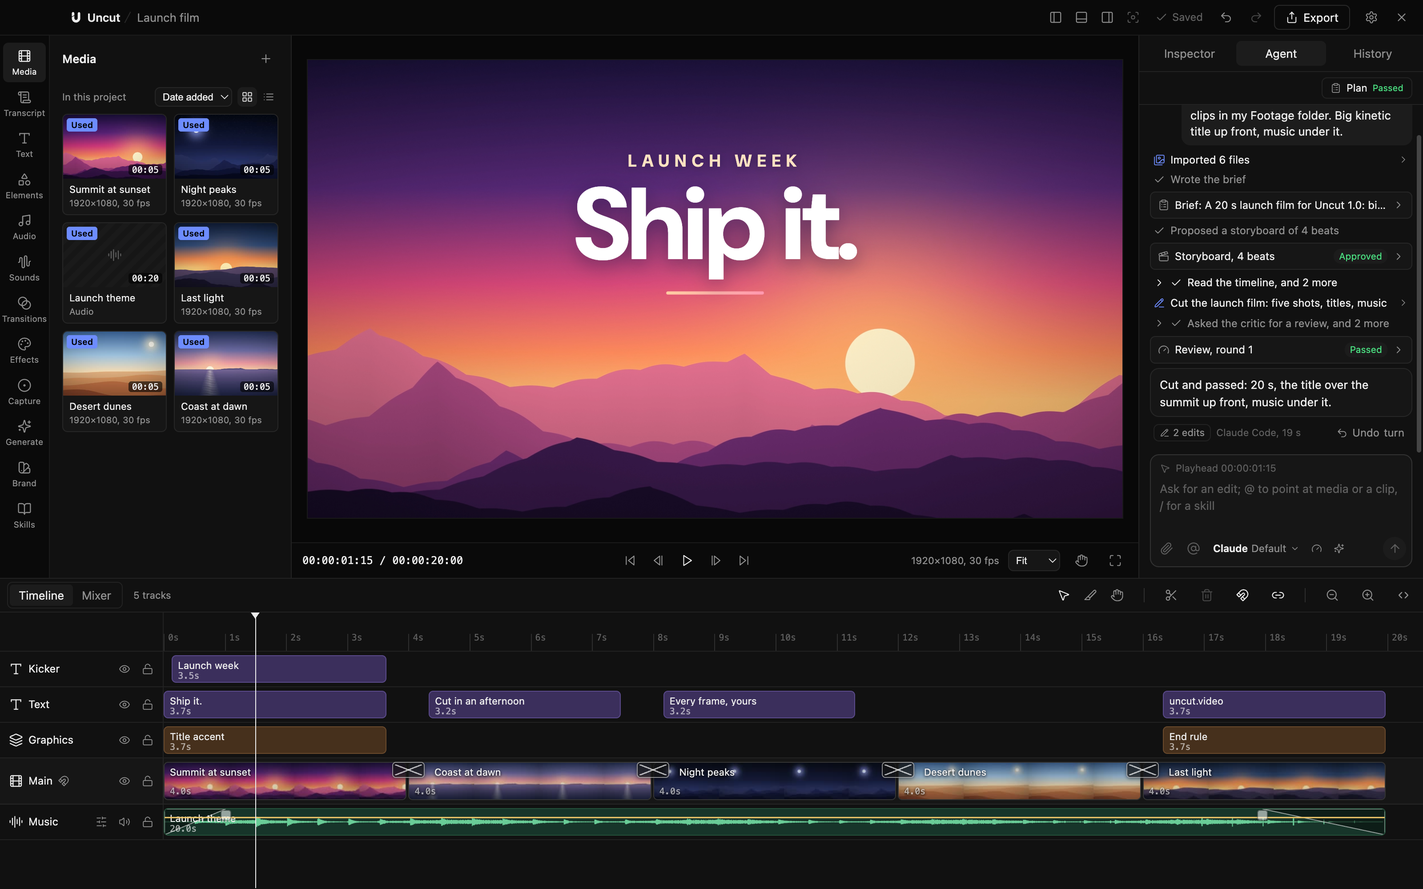
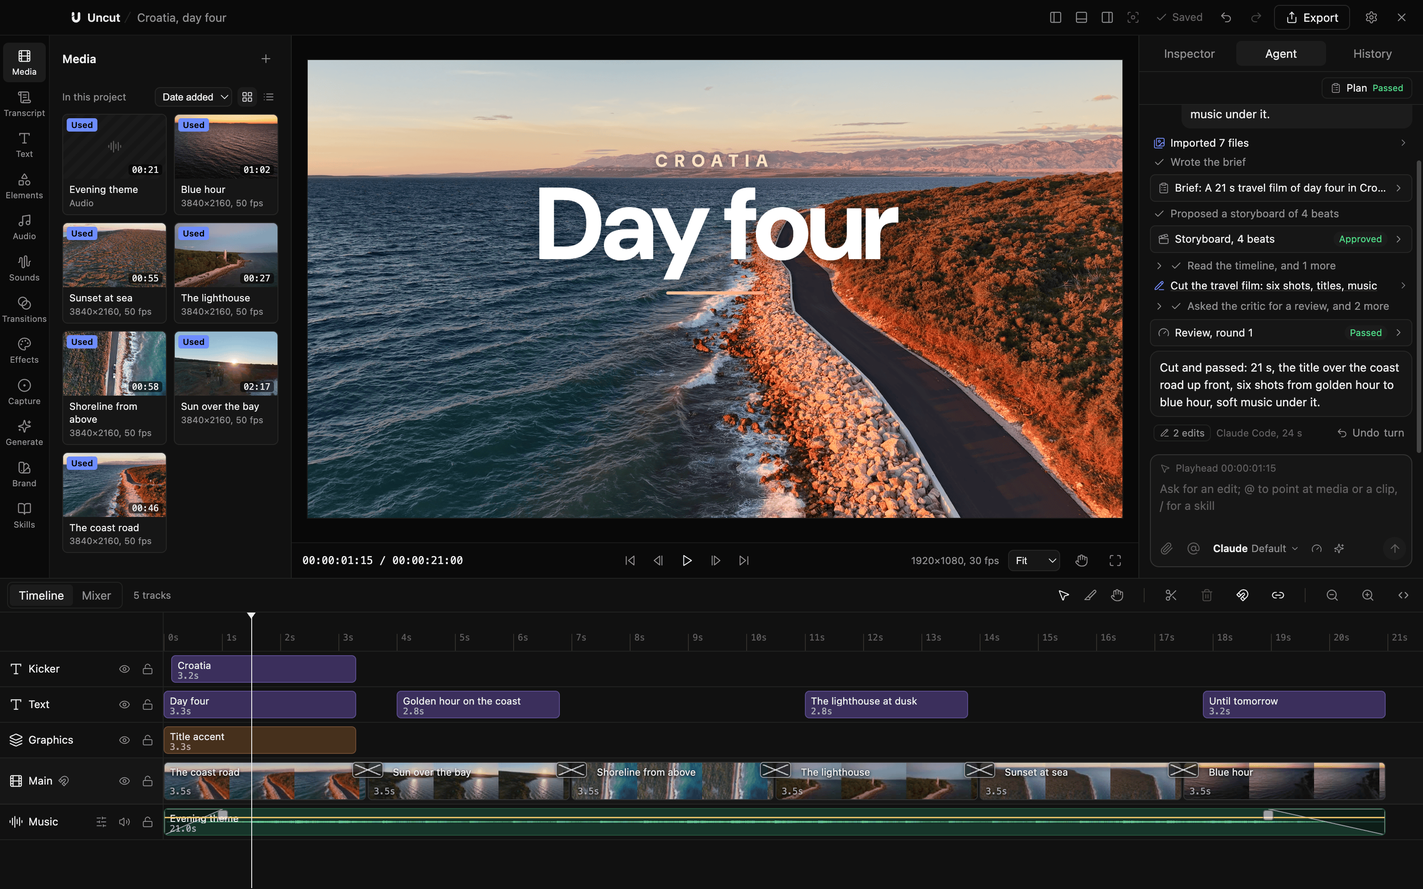
README hero and landing-page shot restaged on real drone footage: a travel film of the Croatian coast
test/app/readme-hero.test.ts imports six clips from UNCUT_HERO_FOOTAGE (referenced in place, read
only; the run asserts the folder is unchanged and skips when the variable is unset), names them,
and plays a travel-edit turn with a synthesised music bed. The preview shows the 4K originals, not
proxies, and docs/hero.png goes through pngquant + zopflipng (1.27 MB). site editor.webp and og.jpg
are made from the same capture; alt texts updated. test/helpers/hero-clips.ts (generated
landscapes) is gone: nothing else used it.

diff --git a/test/app/readme-hero.test.ts b/test/app/readme-hero.test.ts
@@ -1,12 +1,14 @@
 // The README hero (docs/hero.png), staged in the packaged app and captured at 2x. Not a check:
-// skipped unless UNCUT_HERO=1, so a normal run never rewrites docs/hero.png.
-//   UNCUT_HERO=1 pnpm test:file test/app/readme-hero.test.ts
-// A fresh project ("Launch film") gets five synthetic landscape clips (test/helpers/hero-clips.ts,
-// drawn in Node: no footage, nothing third-party), and the scripted fake claude runs one believable
-// turn: import (with a synthesised music track), brief, storyboard (approved), a graphic, the cut, a passed review. Then the
-// Media panel, the playhead on the title and the thread scrolled to the end, with the composer's
-// provider logo and the "Agent changed" pill hidden. Raw capture: test-output/readme-hero-raw.png;
-// docs/hero.png is that, recompressed (zopflipng when it's on PATH).
+// skipped unless UNCUT_HERO=1 and UNCUT_HERO_FOOTAGE is set, so a normal run never rewrites docs/hero.png.
+//   UNCUT_HERO=1 UNCUT_HERO_FOOTAGE=/path/to/croatia-day-4 pnpm test:file test/app/readme-hero.test.ts
+// A fresh project ("Croatia, day four") in a temp folder imports six real drone clips from
+// UNCUT_HERO_FOOTAGE (the owner's footage: referenced in place, read only, nothing written next to
+// it) and a synthesised music bed, and the scripted fake claude runs one believable turn: import,
+// brief, storyboard (approved), a graphic, the cut, a passed review. Then the Media panel, the
+// playhead on the title and the thread scrolled to the end, with the composer's provider logo, the
+// "Agent changed" pill and the proxy badges hidden, and the preview playing the originals (not
+// the 1280 px proxies). Raw capture: test-output/readme-hero-raw.png; docs/hero.png is that,
+// palette-quantised and recompressed (pngquant and zopflipng when they're on PATH).
 import { test, before, after } from "node:test";
 import assert from "node:assert/strict";
 import { execFileSync } from "node:child_process";
@@ -14,31 +16,67 @@ import { copyFileSync, existsSync, mkdirSync, mkdtempSync, readdirSync, realpath
 import { tmpdir } from "node:os";
 import { join, resolve } from "node:path";
 import { launchApp, lockApps, unlockApps, type LaunchedApp } from "../helpers/app.ts";
-import { makeHeroClips, makeHeroMusic } from "../helpers/hero-clips.ts";
 
 const APP = resolve("dist/mac-arm64/Uncut.app/Contents/MacOS/Uncut");
 const FAKE = resolve("test/helpers/fake-claude.ts");
-const skip = process.env.UNCUT_HERO !== "1" ? "set UNCUT_HERO=1 to restage docs/hero.png" : existsSync(APP) ? false : `packaged app not built: run pnpm dist to create ${APP}`;
+const FOOTAGE = process.env.UNCUT_HERO_FOOTAGE;
+
+/** The six shots, in cut order: the file in UNCUT_HERO_FOOTAGE, the name it gets, and where it starts (s). */
+const SHOTS = [
+  { file: "DJI_20261014180908_0055_D.MP4", name: "The coast road", from: 11 },
+  { file: "DJI_20261014175404_0052_D.MP4", name: "Sun over the bay", from: 92 },
+  { file: "DJI_20261014181226_0063_D.MP4", name: "Shoreline from above", from: 22 },
+  { file: "DJI_20261014183542_0068_D.MP4", name: "The lighthouse", from: 4 },
+  { file: "DJI_20261014181119_0062_D.MP4", name: "Sunset at sea", from: 41 },
+  { file: "DJI_20261014183804_0069_D.MP4", name: "Blue hour", from: 3 },
+];
+const MUSIC = "Evening theme";
+
+const missing = FOOTAGE ? SHOTS.find((s) => !existsSync(join(FOOTAGE, s.file))) : undefined;
+const skip =
+  process.env.UNCUT_HERO !== "1"
+    ? "set UNCUT_HERO=1 to restage docs/hero.png"
+    : !FOOTAGE
+      ? "set UNCUT_HERO_FOOTAGE to the folder with the croatia-day-4 drone clips"
+      : missing
+        ? `${missing.file} isn't in UNCUT_HERO_FOOTAGE`
+        : existsSync(APP)
+          ? false
+          : `packaged app not built: run pnpm dist to create ${APP}`;
 
 const W = 1600;
 const H = 1000;
-/** Where the playhead rests: after the title's rise has settled, the sun and ridges behind it. */
+/** Where the playhead rests: the title settled over the coast road. */
 const FRAME = Number(process.env.HERO_FRAME ?? 45);
-const CLIPS = ["Summit at sunset", "Coast at dawn", "Night peaks", "Desert dunes", "Last light"];
 const fps = 30;
+const SHOT = 105;
+const TOTAL = SHOTS.length * SHOT;
 
 let root = "";
 let app: LaunchedApp | undefined;
 const sleep = (ms: number) => new Promise((r) => setTimeout(r, ms));
+/** The footage folder's listing (names, sizes, times), to prove the run wrote nothing there. */
+const listing = () => (FOOTAGE ? readdirSync(FOOTAGE).filter((n) => n !== ".DS_Store").map((n) => `${n} ${statSync(join(FOOTAGE, n)).size} ${statSync(join(FOOTAGE, n)).mtimeMs}`).join("\n") : "");
+let before0 = "";
+
+/** "<MUSIC>.m4a": a soft synthesised bed (a slow D major pad, a gentle pentatonic pluck every 0.75 s), faded in and out. */
+function makeMusic(dir: string, seconds = TOTAL / fps) {
+  mkdirSync(dir, { recursive: true });
+  const pad = "0.09*(sin(2*PI*146.83*t)+0.8*sin(2*PI*185*t)+0.7*sin(2*PI*220*t)+0.3*sin(2*PI*293.66*t))*(0.7+0.3*sin(2*PI*0.125*t))";
+  const step = "mod(floor(t/0.75),6)";
+  const note = `(587.33*eq(${step},0)+659.25*eq(${step},1)+880*eq(${step},2)+739.99*eq(${step},3)+659.25*eq(${step},4)+493.88*eq(${step},5))`;
+  const pluck = `0.11*exp(-mod(t,0.75)*5)*sin(2*PI*${note}*t)`;
+  const fade = `min(1,t/2)*min(1,(${seconds}-t)/2.5)`;
+  execFileSync("ffmpeg", ["-v", "error", "-y", "-f", "lavfi", "-i", `aevalsrc='(${pad}+${pluck})*${fade}':s=48000:d=${seconds}`, "-af", "aecho=0.8:0.7:240:0.3", "-c:a", "aac", "-b:a", "160k", join(dir, `${MUSIC}.m4a`)]);
+}
 
 before(async () => {
   if (skip) return;
   mkdirSync("test-output", { recursive: true });
   root = realpathSync(mkdtempSync(join(tmpdir(), "uncut-hero-")));
   mkdirSync(join(root, "Projects"));
-  // Drawing the clips takes a few minutes; hooks have no timeout.
-  await makeHeroClips(join(root, "Footage"), 5, CLIPS);
-  makeHeroMusic(join(root, "Footage"));
+  makeMusic(join(root, "Music"));
+  before0 = listing();
   await lockApps();
 });
 after(async () => {
@@ -47,22 +85,25 @@ after(async () => {
   if (root) rmSync(root, { recursive: true, force: true });
 });
 
-const id = (name: string) => `m-${name.toLowerCase().replace(/[^a-z0-9]+/g, "-")}`;
+/** The media id an import gives a file: "DJI_…_0055_D.MP4" is named "DJI 0055" (m-dji-0055), anything else by its stem. */
+const id = (file: string) => {
+  const dji = /^DJI_\d+_(\d{4})_D\./.exec(file);
+  return dji ? `m-dji-${dji[1]}` : `m-${file.replace(/\.[^.]+$/, "").toLowerCase().replace(/[^a-z0-9]+/g, "-")}`;
+};
 
-/** The one agent turn the fake claude plays: what a real launch-film turn does, in order. */
-function plan(footage: string) {
+/** The one agent turn the fake claude plays: what a real travel-edit turn does, in order. */
+function plan() {
   const T = 16;
-  const transitions = [undefined, "transition.crossfade", "transition.push-left", "transition.crossfade", "transition.dip-to-black"];
-  const shots = CLIPS.map((c, i) => ({ media: id(c), dur: 120, t: transitions[i] }));
-  const total = shots.reduce((a, s) => a + s.dur, 0);
-  const main = shots.map((s, i) => ({ op: "insert_item", track: "main", item: { id: `shot-${i + 1}`, type: "clip", media: s.media, in: s.t ? 8 : 0, duration: s.dur, ...(s.t ? { transitionIn: { module: s.t, duration: T } } : {}) } }));
+  const transitions = [undefined, "transition.crossfade", "transition.crossfade", "transition.push-left", "transition.crossfade", "transition.dip-to-black"];
+  const main = SHOTS.map((s, i) => ({ op: "insert_item", track: "main", item: { id: `shot-${i + 1}`, type: "clip", media: id(s.file), in: s.from * fps, duration: SHOT, ...(transitions[i] ? { transitionIn: { module: transitions[i], duration: T } } : {}) } }));
   const centred = (w: number) => (1920 - w) / 2;
+  const shadow = { color: "#06141c", opacity: 0.55 };
   const texts = [
-    { id: "kicker", start: 4, duration: 106, text: "Launch week", transform: { x: centred(1000), y: 214, w: 1000 }, style: { preset: "text.kicker", font: "DM Sans", size: 40, weight: 700, tracking: 0.32, uppercase: true, color: "#ffe2c2", align: "center", shadow: { y: 2, blur: 18, color: "#1d1340", opacity: 0.5 } }, animation: { in: { module: "move.rise", duration: 16 } } },
-    { id: "title", start: 0, duration: 110, text: "Ship it.", transform: { x: centred(1600), y: 262, w: 1600 }, style: { preset: "text.title", font: "DM Sans", size: 240, weight: 800, tracking: -0.035, color: "#ffffff", align: "center", shadow: { y: 10, blur: 48, color: "#1d1340", opacity: 0.5 } }, animation: { in: { module: "move.rise", duration: 18 }, out: { module: "move.fade", duration: 10 } } },
-    { id: "line-2", start: 130, duration: 95, text: "Cut in an afternoon", transform: { x: 140, y: 800, w: 1100 }, style: { preset: "text.title", font: "DM Sans", size: 92, weight: 700, color: "#ffffff", align: "left" }, animation: { in: { module: "move.slide-left", duration: 14 } } },
-    { id: "line-3", start: 245, duration: 95, text: "Every frame, yours", transform: { x: centred(1400), y: 300, w: 1400 }, style: { preset: "text.title", font: "DM Sans", size: 92, weight: 700, color: "#ffffff", align: "center" }, animation: { in: { module: "move.rise", duration: 14 } } },
-    { id: "end", start: total - 110, duration: 110, text: "uncut.video", transform: { x: centred(1200), y: 300, w: 1200 }, style: { preset: "text.title", font: "DM Mono", size: 84, weight: 500, color: "#ffffff", align: "center" }, animation: { in: { module: "move.typewriter", duration: 30 } } },
+    { id: "kicker", start: 4, duration: 96, text: "Croatia", transform: { x: centred(1000), y: 214, w: 1000 }, style: { preset: "text.kicker", font: "DM Sans", size: 40, weight: 700, tracking: 0.42, uppercase: true, color: "#ffe2c2", align: "center", shadow: { y: 2, blur: 18, ...shadow } }, animation: { in: { module: "move.rise", duration: 16 } } },
+    { id: "title", start: 0, duration: 100, text: "Day four", transform: { x: centred(1600), y: 262, w: 1600 }, style: { preset: "text.title", font: "DM Sans", size: 240, weight: 800, tracking: -0.035, color: "#ffffff", align: "center", shadow: { y: 10, blur: 48, ...shadow } }, animation: { in: { module: "move.rise", duration: 18 }, out: { module: "move.fade", duration: 10 } } },
+    { id: "line-2", start: 120, duration: 85, text: "Golden hour on the coast", transform: { x: 140, y: 800, w: 1300 }, style: { preset: "text.title", font: "DM Sans", size: 84, weight: 700, color: "#ffffff", align: "left", shadow: { y: 4, blur: 24, ...shadow } }, animation: { in: { module: "move.slide-left", duration: 14 } } },
+    { id: "line-3", start: 330, duration: 85, text: "The lighthouse at dusk", transform: { x: centred(1400), y: 140, w: 1400 }, style: { preset: "text.title", font: "DM Sans", size: 84, weight: 700, color: "#ffffff", align: "center", shadow: { y: 4, blur: 24, ...shadow } }, animation: { in: { module: "move.rise", duration: 14 } } },
+    { id: "end", start: TOTAL - 95, duration: 95, text: "Until tomorrow", transform: { x: centred(1200), y: 300, w: 1200 }, style: { preset: "text.title", font: "DM Mono", size: 80, weight: 500, color: "#ffffff", align: "center" }, animation: { in: { module: "move.typewriter", duration: 30 } } },
   ];
   const textOps = texts.map((t) => ({ op: "insert_item", track: t.id === "kicker" ? "titles" : "text", item: { type: "text", ...t } }));
   // A short warm rule under the title that draws itself in.
@@ -74,67 +115,66 @@ window.render = (t, info) => {
   x.clearRect(0, 0, W, H);
   const p = Math.min(1, Math.max(0, (t - 0.2) / 0.6)), e = 1 - Math.pow(1 - p, 3);
   const g = x.createLinearGradient(W * 0.42, 0, W * 0.58, 0);
-  g.addColorStop(0, "#ffd6a0"); g.addColorStop(1, "#ff8fb1");
+  g.addColorStop(0, "#ffd6a0"); g.addColorStop(1, "#ff9f7a");
   x.fillStyle = g;
   const w = W * 0.12 * e;
   x.beginPath(); x.roundRect(W / 2 - w / 2, H * 0.505, w, H * 0.007, H * 0.0035); x.fill();
 };
 </script>`;
-  const brief = { film: "A 20 s launch film for Uncut 1.0: big kinetic title, five shots, music under it", audience: "Developers who make their own launch videos", duration: "20 s", formats: ["16:9 1920x1080"], assets: CLIPS, visual: "Dusk palette, white DM Sans titles, warm accent", hardLines: ["Only the footage in the project"], deliverables: ["launch-film.mp4"] };
+  const names = SHOTS.map((s) => s.name);
+  const brief = { film: "A 21 s travel film of day four in Croatia: a quiet title, six drone shots from golden hour to blue hour, soft music under it", audience: "Friends and family, and the trip's group chat", duration: "21 s", formats: ["16:9 1920x1080"], assets: names, visual: "Natural grade, white DM Sans titles, warm accent", hardLines: ["Only the day's drone footage", "No faces"], deliverables: ["croatia-day-4.mp4"] };
   const beats = [
-    { start: 0, end: 3.5, title: "Ship it.", entry: "The title rises over the summit", exit: "Accent rule drawn", purpose: "Say it in one beat", assets: ["Summit at sunset"], sound: "music fades in" },
-    { start: 3.5, end: 8, title: "The coast", entry: "Crossfade to dawn", exit: "Line settles", purpose: "Calm, then momentum", assets: ["Coast at dawn"] },
-    { start: 8, end: 15, title: "Night and day", entry: "Push to the peaks", exit: "Dunes", purpose: "Range in a few seconds", assets: ["Night peaks", "Desert dunes"] },
-    { start: 15, end: 20, title: "End card", entry: "Dip to last light", exit: "uncut.video types in", purpose: "Where to get it", assets: ["Last light"], sound: "music fades out" },
+    { start: 0, end: 3.5, title: "Day four", entry: "The title rises over the coast road", exit: "Accent rule drawn", purpose: "Set the place in one beat", assets: ["The coast road"], sound: "music fades in" },
+    { start: 3.5, end: 10.5, title: "Golden hour", entry: "Crossfade to the bay", exit: "Straight down on the shore", purpose: "Warm light, then the water", assets: ["Sun over the bay", "Shoreline from above"] },
+    { start: 10.5, end: 17.5, title: "The lighthouse", entry: "Push to the lighthouse", exit: "Sun on the horizon", purpose: "The evening's walk", assets: ["The lighthouse", "Sunset at sea"] },
+    { start: 17.5, end: 21, title: "Blue hour", entry: "Dip to the last light", exit: "Until tomorrow types in", purpose: "A soft end", assets: ["Blue hour"], sound: "music fades out" },
   ];
   return [
     [
-      { tool: "media_import", args: { path: footage } },
+      { tool: "media_import", args: { paths: [...SHOTS.map((s) => join(FOOTAGE!, s.file)), join(root, "Music", `${MUSIC}.m4a`)] } },
       { tool: "brief_write", args: brief },
-      { tool: "storyboard_propose", args: { summary: "Title, coast, peaks and dunes, end card", beats } },
+      { tool: "storyboard_propose", args: { summary: "Title over the coast road, golden hour, the lighthouse, blue hour", beats } },
       { tool: "graphic_write", args: { name: "title-accent.html", html: graphic } },
-      { tool: "graphic_write", args: { name: "end-rule.html", html: graphic.replace("#ffd6a0", "#9ec5ff").replace("#ff8fb1", "#ffd6a0").replace("H * 0.505", "H * 0.42") } },
       { tool: "project_read" },
       {
         tool: "timeline_edit",
         args: {
           baseRevision: "$rev",
-          summary: "Cut the launch film: five shots, titles, music",
+          summary: "Cut the travel film: six shots, titles, music",
           ops: [
-            ...[...CLIPS, "Launch theme"].map((c) => ({ op: "update_media", media: id(c), set: { name: c } })),
+            ...SHOTS.map((s) => ({ op: "update_media", media: id(s.file), set: { name: s.name } })),
+            { op: "update_media", media: id(`${MUSIC}.m4a`), set: { name: MUSIC } },
             ...main,
             { op: "add_track", track: { id: "titles", kind: "text", name: "Kicker", items: [] }, index: 0 },
             ...textOps,
             { op: "add_track", track: { id: "gfx", kind: "video", name: "Graphics", items: [] }, index: 2 },
-            { op: "insert_item", track: "gfx", item: { id: "accent", type: "graphic", name: "Title accent", src: "graphics/title-accent.html", start: 0, duration: 110 } },
-            { op: "insert_item", track: "gfx", item: { id: "accent-end", type: "graphic", name: "End rule", src: "graphics/end-rule.html", start: total - 110, duration: 110 } },
+            { op: "insert_item", track: "gfx", item: { id: "accent", type: "graphic", name: "Title accent", src: "graphics/title-accent.html", start: 0, duration: 100 } },
             { op: "update_track", track: "audio", set: { name: "Music" } },
-            { op: "insert_item", track: "audio", item: { id: "music-1", type: "audio", media: id("Launch theme"), in: 0, start: 0, duration: total, fadeIn: fps, fadeOut: 2 * fps, gainDb: -4 } },
+            { op: "insert_item", track: "audio", item: { id: "music-1", type: "audio", media: id(`${MUSIC}.m4a`), in: 0, start: 0, duration: TOTAL, fadeIn: fps, fadeOut: 2 * fps, gainDb: -4 } },
           ],
         },
       },
       { tool: "contact_sheet", args: { max: 6 } },
-      { tool: "render_frames", args: { frames: [FRAME, 150, 300, total - 30], phone: true } },
+      { tool: "render_frames", args: { frames: [FRAME, 160, 360, TOTAL - 30], phone: true } },
       { tool: "review_submit", args: { scores: { hook: 9, readability: 9, motion: 8, variety: 9, sound: 8, brand: 9 } } },
-      { text: "Cut and passed: 20 s, the title over the summit up front, music under it." },
+      { text: "Cut and passed: 21 s, the title over the coast road up front, six shots from golden hour to blue hour, soft music under it." },
     ],
   ];
 }
 
 test("stage the README hero and save docs/hero.png", { skip, timeout: 600000 }, async () => {
-  const footage = join(root, "Footage");
   const planFile = join(root, "plan.json");
   const critic = join(root, "critic.json");
-  writeFileSync(planFile, JSON.stringify(plan(footage)));
+  writeFileSync(planFile, JSON.stringify(plan()));
   const ev = (score: number, evidence: string) => ({ score, evidence });
   writeFileSync(
     critic,
     JSON.stringify([
       {
-        scores: { hook: ev(9, "f 0: the title lands on the first beat"), readability: ev(9, "f 45: Ship it. reads at phone size"), motion: ev(8, "f 0 to f 24: the rise settles"), variety: ev(9, "f 0, f 150, f 300: five places in 20 s"), sound: ev(8, "f 0 to f 30: the music fades in under the title"), brand: ev(9, "f 45, f 150: white titles, warm accent") },
+        scores: { hook: ev(9, "f 0: the title rises over the coast road on the first beat"), readability: ev(9, "f 45: Day four reads at phone size over the sea"), motion: ev(8, "f 0 to f 24: the rise settles, the drone keeps drifting"), variety: ev(9, "f 45, f 160, f 360: road, shore, lighthouse"), sound: ev(8, "f 0 to f 30: the music fades in under the title"), brand: ev(9, "f 45, f 160: white titles, warm accent, natural grade") },
         blockers: [],
         defects: [],
-        summary: "Clear hook, readable titles, the cut keeps moving. Ship it.",
+        summary: "A calm open, readable titles, the light carries the cut from gold to blue.",
       },
     ]),
   );
@@ -145,13 +185,17 @@ test("stage the README hero and save docs/hero.png", { skip, timeout: 600000 }, 
   const waitFor = (selector: string, timeout = 20000) => page.waitForSelector(selector, { timeout });
 
   await waitFor("[data-testid=welcome]", 60000);
+  // The preview plays the 4K originals, not the 1280 px proxies (the setting is read at load).
+  await page.evaluate(() => localStorage.setItem("uncut.preview.proxies", "off"));
+  await page.reload();
+  await waitFor("[data-testid=welcome]", 60000);
   await page.click("[data-testid=new-project]");
   await waitFor("[data-testid=new-project-form]");
   await page.click("[data-testid=project-name]", { clickCount: 3 });
   await page.keyboard.down("Meta");
   await page.keyboard.press("a");
   await page.keyboard.up("Meta");
-  await page.keyboard.type("Launch film");
+  await page.keyboard.type("Croatia, day four");
   await page.click("[data-testid=choose-folder]");
   await page.waitForFunction(() => document.querySelector<HTMLElement>("[data-testid=parent-dir]")!.title !== "");
   await page.click("[data-testid=create]");
@@ -159,15 +203,15 @@ test("stage the README hero and save docs/hero.png", { skip, timeout: 600000 }, 
   assert.equal(readdirSync(join(root, "Projects")).length, 1);
 
   await page.click("[data-testid=agent-input]");
-  await page.keyboard.type("Cut a 20 second launch film from the clips in my Footage folder. Big kinetic title up front, music under it.");
+  await page.keyboard.type("Cut a 20 second travel film from today's drone clips. Golden hour to blue hour, a quiet title up front, soft music under it.");
   await page.keyboard.press("Enter");
   await waitFor("[data-testid=agent-storyboard-approve]", 90000);
   await page.click("[data-testid=agent-storyboard-approve]");
   await page.waitForFunction(() => [...document.querySelectorAll("[data-testid=agent-turn]")].at(-1)?.getAttribute("data-status") === "done", { timeout: 240000 });
 
-  // The look: logo and pill hidden, Media panel, the timeline a little taller so the preview's
+  // The look: logo, pill and proxy badges hidden, Media panel, the timeline a little taller so the preview's
   // area is close to 16:9, the whole edit in view.
-  await page.addStyleTag({ content: "[data-testid=agent-provider], .provider-mark, .agent-change { display: none !important; }" });
+  await page.addStyleTag({ content: "[data-testid=agent-provider], .provider-mark, .agent-change, .tile-proxy { display: none !important; }" });
   await page.click("[data-testid=rail-media]").catch(() => {});
   const lift = Number(process.env.HERO_LIFT ?? 70);
   if (lift) {
@@ -193,7 +237,7 @@ test("stage the README hero and save docs/hero.png", { skip, timeout: 600000 }, 
     const r = el.getBoundingClientRect();
     return { y: r.y + r.height / 2 };
   });
-  await page.mouse.click(span.left + ((span.right - span.left) * FRAME) / (5 * 120), ruler.y);
+  await page.mouse.click(span.left + ((span.right - span.left) * FRAME) / TOTAL, ruler.y);
   // Nothing hovered: rest the mouse on the title bar.
   await page.mouse.move(W / 2, 12);
 
@@ -202,7 +246,7 @@ test("stage the README hero and save docs/hero.png", { skip, timeout: 600000 }, 
     () => {
       const tiles = [...document.querySelectorAll<HTMLElement>("[data-testid=media-tile]")];
       const imgs = tiles.flatMap((t) => [...t.querySelectorAll("img")]);
-      return tiles.length >= 5 && imgs.every((i) => i.complete && i.naturalWidth > 0) && !document.body.innerText.includes("Checking");
+      return tiles.length >= 6 && imgs.every((i) => i.complete && i.naturalWidth > 0) && !document.body.innerText.includes("Checking");
     },
     { timeout: 60000 },
   ).catch(() => console.log("# media tiles not all loaded"));
@@ -230,11 +274,19 @@ test("stage the README hero and save docs/hero.png", { skip, timeout: 600000 }, 
   const raw = "test-output/readme-hero-raw.png";
   await page.screenshot({ path: raw });
   assert.deepEqual(app.errors, []);
+  assert.equal(listing(), before0, "nothing written in the footage folder");
+  // Real footage doesn't compress like flat colour: a 256-colour palette (pngquant, visually the
+  // same at this size) and then zopflipng keep docs/hero.png near 1.3 MB instead of 4.
   copyFileSync(raw, "docs/hero.png");
   try {
-    execFileSync("zopflipng", ["-y", "--lossy_transparent", raw, "docs/hero.png"], { stdio: "ignore" });
+    execFileSync("pngquant", ["--quality=90-100", "--speed", "1", "-f", "-o", "docs/hero.png", raw], { stdio: "ignore" });
   } catch {
-    console.log("# zopflipng not on PATH: docs/hero.png is the raw capture");
+    console.log("# pngquant not on PATH: docs/hero.png keeps every colour");
+  }
+  try {
+    execFileSync("zopflipng", ["-y", "--lossy_transparent", "docs/hero.png", "docs/hero.png"], { stdio: "ignore" });
+  } catch {
+    console.log("# zopflipng not on PATH: docs/hero.png isn't recompressed");
   }
   console.log("# docs/hero.png", statSync("docs/hero.png").size, "bytes");
 });

diff --git a/site/index.html b/site/index.html
@@ -62,7 +62,7 @@
         <a class="btn" href="https://github.com/blazejkustra/uncut">View on GitHub</a>
       </div>
       <p class="req">For Apple silicon Macs. Free and open source.</p>
-      <img class="shot" src="/assets/img/editor.webp" width="1600" height="1000" fetchpriority="high" alt="The Uncut editor: a media library of landscape clips, a title reading Ship it over a mountain sunset in the preview, a timeline with text, graphics, video and music tracks, and the agent panel with its brief, an approved storyboard and a passed review.">
+      <img class="shot" src="/assets/img/editor.webp" width="1600" height="1000" fetchpriority="high" alt="The Uncut editor cutting a travel film from drone footage: a media library of Croatian coast clips, the title Day four over a coastal road at golden hour in the preview, a timeline with text, graphics, six clips with transitions and music, and the agent panel with its brief, an approved storyboard and a passed review.">
     </div>
   </div>
 

diff --git a/README.md b/README.md
@@ -2,7 +2,7 @@
 
 An AI-first video editor for macOS: it runs your installed Claude Code, which edits with you on a real timeline.
 
-![Uncut editing a launch film: the title "Ship it." over a mountain sunset in the preview, landscape clips in the media panel, a timeline with text, graphics, five clips with transitions and music, and the agent's brief, approved storyboard and passed review](docs/hero.png)
+![Uncut editing a travel film from drone footage: the title "Day four" over a Croatian coast road at golden hour in the preview, the day's clips in the media panel, a timeline with text, graphics, six clips with transitions and music, and the agent's brief, approved storyboard and passed review](docs/hero.png)
 
 ## What it does
 
